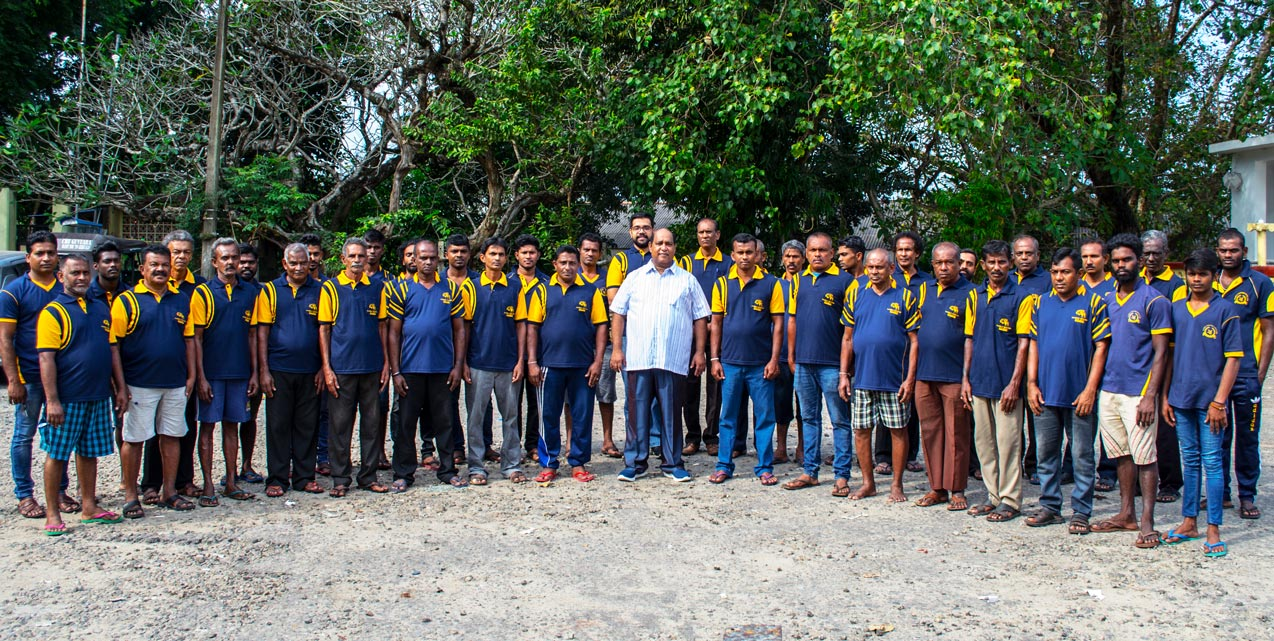
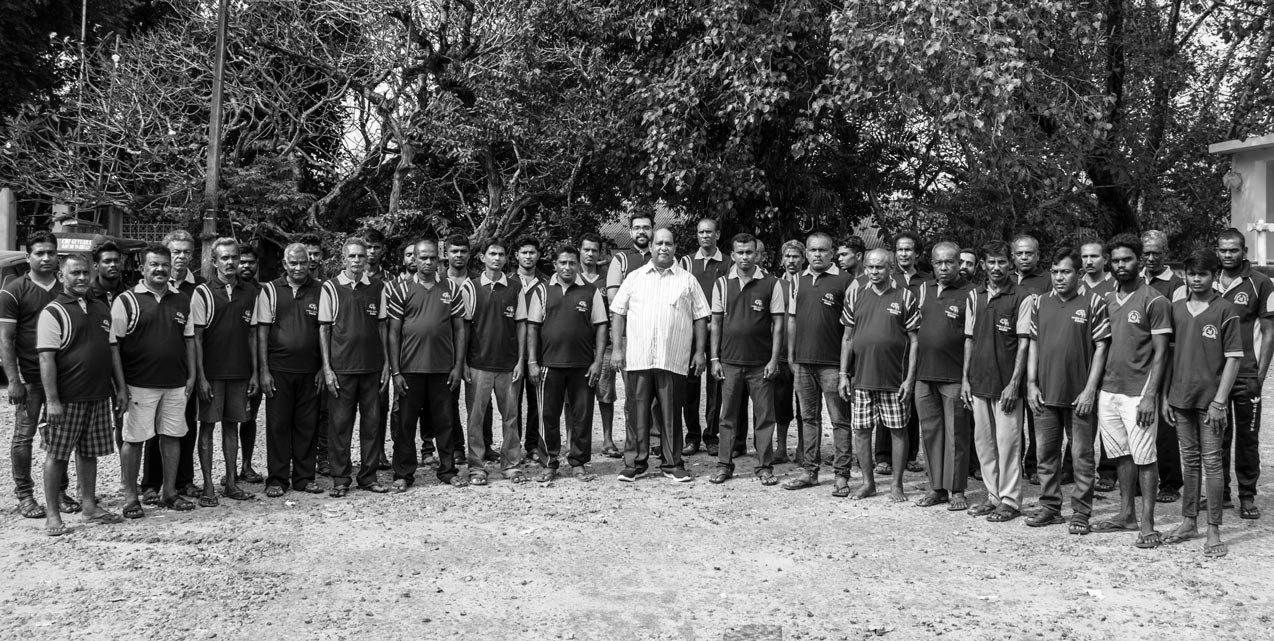
Make founder team.jpg black and white
Convert images/team.jpg to true grayscale JPEG and bump cache-bust to v=19 for team image and global CSS/JS.

diff --git a/index.html b/index.html
@@ -17,7 +17,7 @@
     gtag('js', new Date());
     gtag('config', 'G-W453LPRSKV');
   </script>
-  <link rel="stylesheet" href="css/styles.css?v=18">
+  <link rel="stylesheet" href="css/styles.css?v=19">
 </head>
 <body>
   <a class="skip" href="#home">Skip to content</a>
@@ -416,7 +416,7 @@
       </div>
       <div class="people-grid">
         <article class="person-card">
-          <img src="images/team.jpg" alt="Nimal Chandrasiri, founder of Family Movers" width="480" height="320" loading="lazy">
+          <img src="images/team.jpg?v=19" alt="Nimal Chandrasiri, founder of Family Movers" width="480" height="320" loading="lazy">
           <h3>Nimal Chandrasiri</h3>
           <p class="person-role">Founder</p>
           <p>Nimal Chandrasiri founded Family Movers in 1989 and incorporated the company as Family Movers (Pvt) Ltd in 2002. The company still carries the values he set: careful work, personal accountability and respect for what customers entrust to us.</p>
@@ -509,7 +509,7 @@
   </footer>
 
 
-  <script src="js/main.js?v=18"></script>
-  <script src="js/whatsapp-widget.js?v=18"></script>
+  <script src="js/main.js?v=19"></script>
+  <script src="js/whatsapp-widget.js?v=19"></script>
 </body>
 </html>
